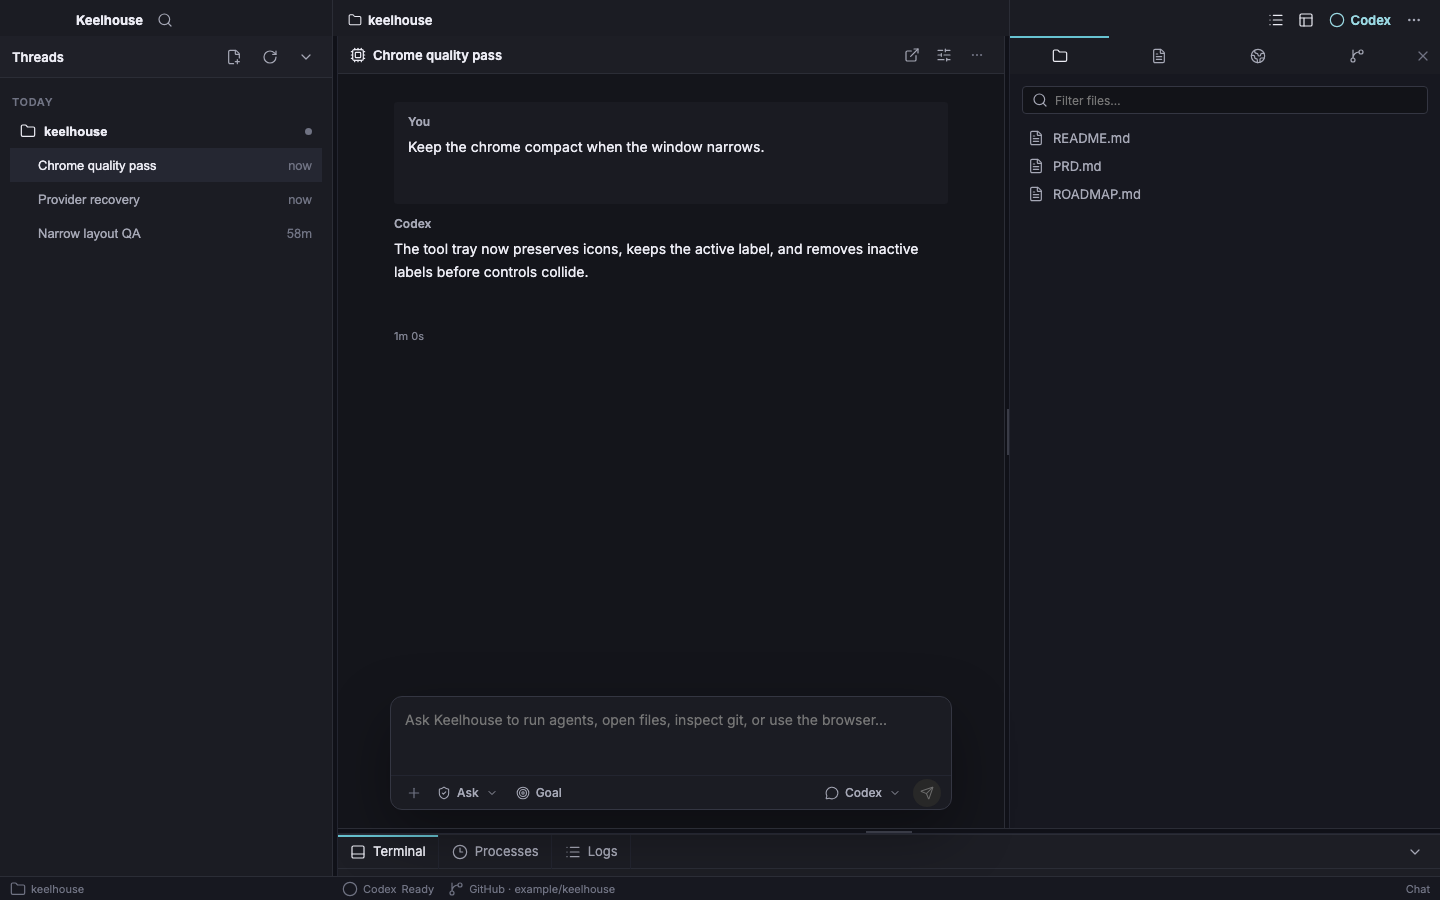
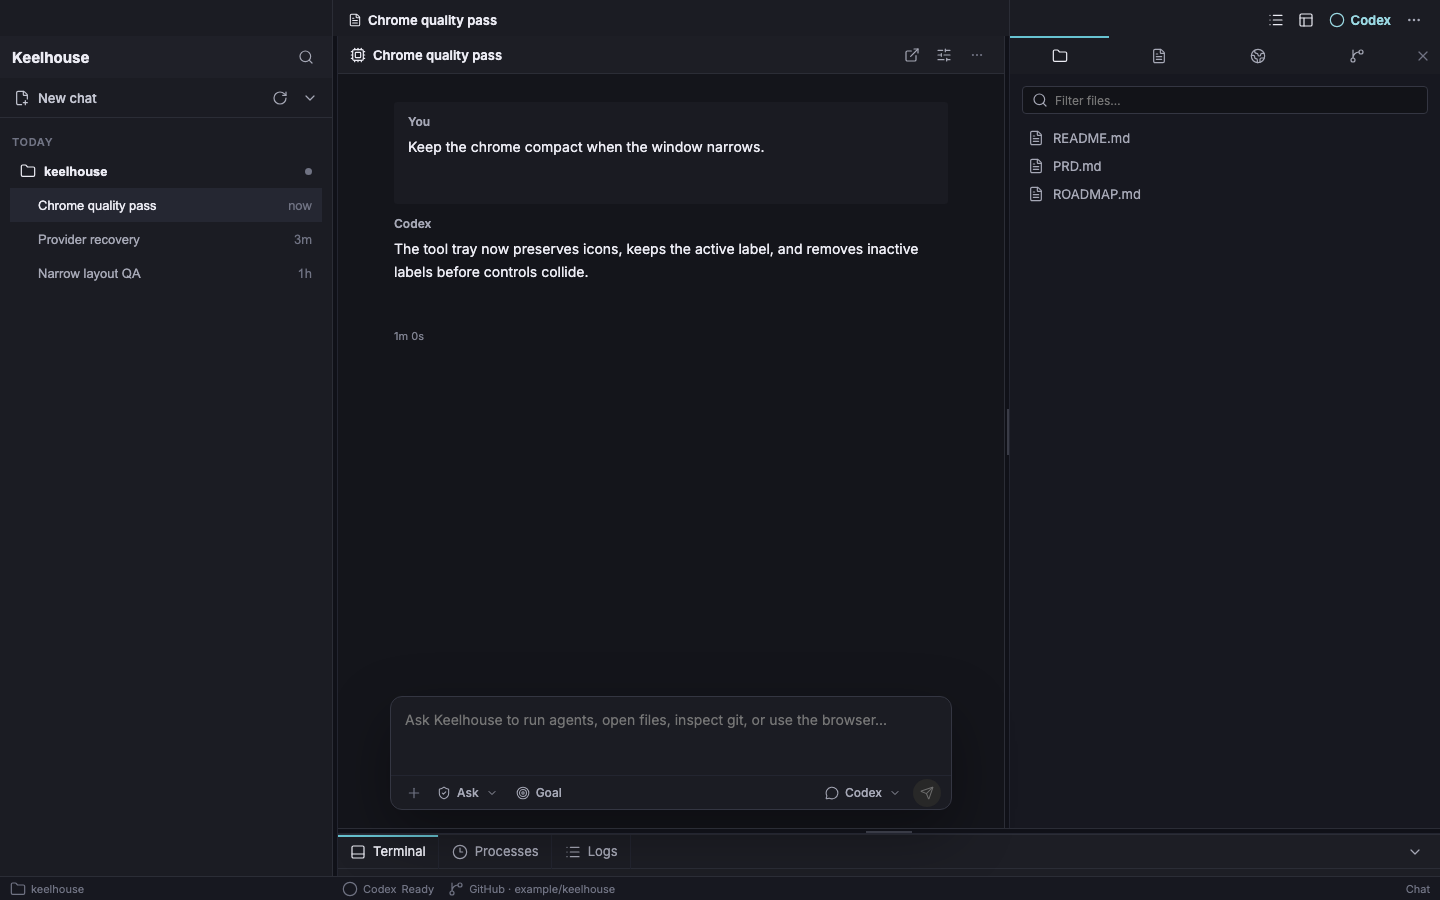
style: align chrome with chat layout

diff --git a/app/src/App.css b/app/src/App.css
@@ -7216,36 +7216,8 @@ body,
 }
 
 .titlebar-identity {
-  gap: 8px;
   padding-left: 76px;
   background: transparent;
-}
-
-.titlebar-product {
-  flex: 0 1 auto;
-  min-width: 0;
-  color: #ececf4;
-  font-size: 13px;
-  font-weight: 700;
-  overflow: hidden;
-  text-overflow: ellipsis;
-  white-space: nowrap;
-}
-
-.titlebar-search {
-  width: 28px;
-  flex: 0 0 28px;
-  justify-content: center;
-  border-radius: 3px;
-  padding: 0;
-}
-
-.titlebar-search:hover {
-  background: #252732;
-}
-
-.titlebar-search span {
-  display: none;
 }
 
 .titlebar-splitter {
@@ -7310,13 +7282,55 @@ body,
     grid-template-columns: minmax(0, 1fr) auto;
   }
 
-  .titlebar-product {
-    display: none;
-  }
-
   .titlebar-identity {
     padding-left: 76px;
   }
+}
+
+.drawer-toolbar {
+  height: 44px;
+  flex-basis: 44px;
+  border-bottom: 0;
+  font-size: 15px;
+  font-weight: 700;
+  padding-inline: 14px 12px;
+}
+
+.drawer-primary-row {
+  display: flex;
+  height: 40px;
+  flex: 0 0 40px;
+  align-items: center;
+  gap: 2px;
+  border-bottom: 1px solid #2b2d36;
+  padding-inline: 8px;
+}
+
+.drawer-primary-action {
+  display: inline-flex;
+  min-width: 0;
+  height: 30px;
+  flex: 1 1 auto;
+  align-items: center;
+  gap: 8px;
+  border: 0;
+  border-radius: 3px;
+  background: transparent;
+  color: #c4c6d2;
+  font: 500 13px var(--font-ui);
+  padding-inline: 6px;
+  text-align: left;
+}
+
+.drawer-primary-action:hover:not(:disabled),
+.drawer-primary-action:focus-visible {
+  background: #252732;
+  color: #ececf4;
+  outline: none;
+}
+
+.drawer-primary-action:disabled {
+  color: #707383;
 }
 
 .titlebar-workspace .app-icon {

diff --git a/app/src/App.tsx b/app/src/App.tsx
@@ -5702,15 +5702,9 @@ function App() {
   return (
     <div className={`app-shell ${sideDrawerCollapsed ? "app-shell--side-drawer-collapsed" : ""} ${settingsOpen ? "app-shell--settings-open" : ""}`} style={appShellStyle}>
       <header className="app-titlebar" aria-label="Application chrome" data-tauri-drag-region>
-        <div className="titlebar-identity">
-          <span className="titlebar-product">Keelhouse</span>
-          <button className="titlebar-search" type="button" onClick={() => openChatSearch()} title="Search chats across projects" aria-label="Search chats across projects">
-            <AppIcon name="search" />
-            <span>Search</span>
-          </button>
-        </div>
+        <div className="titlebar-identity" aria-hidden="true" />
         <div className="titlebar-splitter" aria-hidden="true" />
-        <div className="titlebar-agent-context" aria-label="Workspace context" data-tauri-drag-region>
+        <div className="titlebar-agent-context" aria-label="Active chat" data-tauri-drag-region>
           <div
             className="titlebar-workspace"
             data-tauri-drag-region
@@ -5718,12 +5712,11 @@ function App() {
               event.preventDefault();
               void toggleNativeWindowMaximize();
             }}
-            title="Current project. Double-click to maximize or restore the window."
+            title="Current chat. Double-click to maximize or restore the window."
           >
-            <AppIcon name="workspace" />
-            <span>{activeWorkspaceName}</span>
+            <AppIcon name="file" />
+            <span>{activeSessionTitle}</span>
           </div>
-          {gitStatus?.branch ? <span className="titlebar-branch">{`⎇ ${gitStatus.branch}`}</span> : null}
         </div>
         <div className="titlebar-splitter" aria-hidden="true" />
         <div className="titlebar-actions">
@@ -5757,39 +5750,43 @@ function App() {
       </header>
       <aside className={`file-rail ${sideDrawerCollapsed ? "file-rail--collapsed" : ""}`} aria-label={`${sideDrawerMode === "projects" ? "Project threads" : drawerActiveTitle} drawer`}>
         <div className="drawer-toolbar">
-          <span>{sideDrawerMode === "projects" ? "Threads" : drawerActiveTitle}</span>
-          {sideDrawerMode === "projects" ? (
+          <span>{sideDrawerMode === "projects" ? "Keelhouse" : drawerActiveTitle}</span>
+          <button
+            className="drawer-collapse-button"
+            type="button"
+            title="Search chats across projects"
+            aria-label="Search chats across projects"
+            onClick={() => openChatSearch()}
+          >
+            <AppIcon name="search" />
+          </button>
+        </div>
+        {sideDrawerMode === "projects" ? (
+          <div className="drawer-primary-row">
             <button
-              className="drawer-collapse-button"
+              className="drawer-primary-action"
               type="button"
-              title="New chat"
-              aria-label="New chat"
               disabled={!workspacePath}
               onClick={() => workspacePath && void createProjectSession(workspacePath)}
             >
               <AppIcon name="filePlus" />
+              <span>New chat</span>
             </button>
-          ) : null}
-          <button
-            className="drawer-collapse-button"
-            type="button"
-            title="Reset interface"
-            aria-label="Reset interface"
-            onClick={resetInterface}
-          >
-            <AppIcon name="reload" />
-          </button>
-          <button
-            className="drawer-collapse-button"
-            type="button"
-            title={sideDrawerCollapsed ? "Expand side drawer" : "Collapse side drawer"}
-            aria-label={sideDrawerCollapsed ? "Expand side drawer" : "Collapse side drawer"}
-            aria-pressed={sideDrawerCollapsed}
-            onClick={() => setSideDrawerCollapsed((collapsed) => !collapsed)}
-          >
-            <AppIcon name={sideDrawerCollapsed ? "chevronRight" : "chevronDown"} />
-          </button>
-        </div>
+            <button className="drawer-collapse-button" type="button" title="Reset interface" aria-label="Reset interface" onClick={resetInterface}>
+              <AppIcon name="reload" />
+            </button>
+            <button
+              className="drawer-collapse-button"
+              type="button"
+              title={sideDrawerCollapsed ? "Expand side drawer" : "Collapse side drawer"}
+              aria-label={sideDrawerCollapsed ? "Expand side drawer" : "Collapse side drawer"}
+              aria-pressed={sideDrawerCollapsed}
+              onClick={() => setSideDrawerCollapsed((collapsed) => !collapsed)}
+            >
+              <AppIcon name={sideDrawerCollapsed ? "chevronRight" : "chevronDown"} />
+            </button>
+          </div>
+        ) : null}
         <div className="drawer-mode-switcher" role="tablist" aria-label="Side drawer">
           {DRAWER_MODES.map((mode) => (
             <button